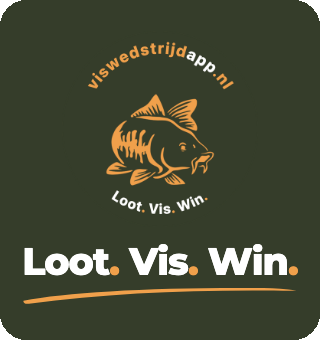
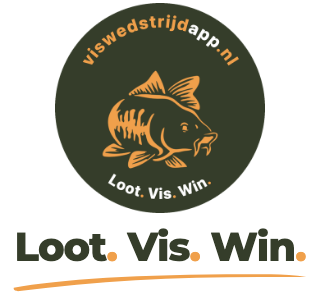
Handtekening: merkblok zonder groen vlak, alleen voornaam
Besluit Patrick: geen groene achtergrond om het merkblok (het ronde logo brengt zijn
eigen cirkel mee) en de slogan eronder in donkergroen met oranje punten, op een
doorzichtige achtergrond. Naam in de handtekening is alleen Patrick.

diff --git a/marketing/handtekening-viswedstrijdapp.html b/marketing/handtekening-viswedstrijdapp.html
@@ -10,10 +10,10 @@
 <table cellpadding="0" cellspacing="0" style="border-collapse:collapse;font-family:'Montserrat','Avenir Next',Avenir,'Segoe UI',Roboto,Helvetica,Arial,sans-serif;color:#29271e;">
 <tr>
 <td style="padding:0 16px 0 0;vertical-align:top;">
-<a href="https://viswedstrijdapp.nl/" style="text-decoration:none;"><img src="https://viswedstrijdapp.nl/handtekening-merk.png" width="150" height="159" alt="Viswedstrijdapp | Loot. Vis. Win." style="display:block;border:0;"></a>
+<a href="https://viswedstrijdapp.nl/" style="text-decoration:none;"><img src="https://viswedstrijdapp.nl/handtekening-merk.png" width="150" height="141" alt="Viswedstrijdapp | Loot. Vis. Win." style="display:block;border:0;"></a>
 </td>
 <td style="vertical-align:top;border-left:3px solid #f0a04b;padding-left:16px;font-size:13px;line-height:1.5;">
-<div style="font-size:16px;font-weight:800;color:#353d2a;">Patrick Kemble</div>
+<div style="font-size:16px;font-weight:800;color:#353d2a;">Patrick</div>
 <div style="color:#55523f;">Viswedstrijd app &nbsp;·&nbsp; loting, stekkeuze en live klassement</div>
 <div style="margin-top:8px;"><a href="https://viswedstrijdapp.nl/" style="color:#f0a04b;font-weight:700;text-decoration:none;">viswedstrijdapp.nl</a> &nbsp;·&nbsp; <a href="mailto:info@viswedstrijdapp.nl" style="color:#353d2a;text-decoration:none;">info@viswedstrijdapp.nl</a></div>
 <div style="margin-top:6px;font-size:12px;color:#9ba183;">een product van <a href="https://kemblinck.nl/" style="color:#9ba183;text-decoration:none;">KemblincK</a> &nbsp;·&nbsp; KvK 42043399</div>

diff --git a/marketing/gen_handtekening_merk.py b/marketing/gen_handtekening_merk.py
@@ -1,7 +1,11 @@
-# Merkblok voor de e-mailhandtekening: het ronde logo op donkergroen met
-# "Loot. Vis. Win." eronder en de oranje penseelstreek (beeld van Patrick,
-# 20 sep 2026). Wordt als een plaatje in de handtekening gezet, want een
-# mailclient rendert geen webfont en geen inline SVG betrouwbaar.
+# Merkblok voor de e-mailhandtekening: het ronde logo met "Loot. Vis. Win."
+# eronder en de oranje penseelstreek. Wordt als een plaatje in de handtekening
+# gezet, want een mailclient rendert geen webfont en geen inline SVG betrouwbaar.
+#
+# Besluit Patrick 20 sep 2026: GEEN groen vlak eromheen. De achtergrond is
+# doorzichtig (het logo brengt zijn eigen groene cirkel mee) en de slogan staat
+# in donkergroen met oranje punten, zodat het blok op een witte mailachtergrond
+# staat zonder kader.
 #
 # Draaien vanuit app/: python3 marketing/gen_handtekening_merk.py
 # Uitvoer: docs/handtekening-merk.png (320x340, tonen op 160x170)
@@ -20,13 +24,13 @@ STREEP = ("<svg viewBox='0 0 200 15'><path d='M2.5 11.2C34 5.1 96 1.6 174 2.2c8 
 html = f"""<!DOCTYPE html><html><head><meta charset='utf-8'><style>
 @font-face {{ font-family:'Montserrat'; font-weight:400 900; src:url(data:font/woff2;base64,{mont}) format('woff2'); }}
 * {{ margin:0; padding:0; box-sizing:border-box; }}
-html,body {{ width:320px; height:340px; overflow:hidden; }}
-body {{ background:#353d2a; font-family:'Montserrat',Arial,sans-serif;
+html,body {{ width:320px; height:300px; overflow:hidden; background:transparent; }}
+body {{ font-family:'Montserrat',Arial,sans-serif;
   display:flex; flex-direction:column; align-items:center; justify-content:center;
-  padding:22px 20px 26px; }}
-img {{ width:196px; height:196px; display:block; }}
-.slogan {{ margin-top:16px; width:100%; text-align:center; }}
-.slogan .t {{ font-size:38px; font-weight:800; color:#fff; letter-spacing:-1px; line-height:1; }}
+  padding:6px 10px 10px; }}
+img {{ width:210px; height:210px; display:block; }}
+.slogan {{ margin-top:14px; width:100%; text-align:center; }}
+.slogan .t {{ font-size:40px; font-weight:800; color:#353d2a; letter-spacing:-1px; line-height:1; }}
 .slogan i {{ color:#f0a04b; font-style:normal; }}
 .slogan svg {{ display:block; width:100%; margin-top:4px; }}
 </style></head><body>
@@ -38,16 +42,14 @@ tmp = HIER / "_hs.html"
 tmp.write_text(html, encoding="utf-8")
 uit = APP / "docs" / "handtekening-merk.png"
 subprocess.run([CHROME, "--headless", "--disable-gpu", "--hide-scrollbars",
-                f"--screenshot={uit}", "--window-size=320,340",
+                "--default-background-color=00000000",
+                f"--screenshot={uit}", "--window-size=320,300",
                 "--force-device-scale-factor=1", f"file://{tmp.resolve()}"], capture_output=True)
 tmp.unlink()
 
-# afgeronde hoeken met transparante buitenrand: het blok mag niet als een
-# rechthoekig vlak in de mail staan
-from PIL import Image, ImageDraw
+from PIL import Image
 im = Image.open(uit).convert("RGBA")
-masker = Image.new("L", im.size, 0)
-ImageDraw.Draw(masker).rounded_rectangle([0, 0, im.width - 1, im.height - 1], radius=26, fill=255)
-im.putalpha(masker)
+if im.getpixel((2, 2))[3] > 10:      # Chrome gaf toch een dekkende achtergrond
+    print("LET OP: achtergrond niet doorzichtig")
 im.save(uit)
 print("geschreven:", uit, uit.stat().st_size // 1024, "KB")
